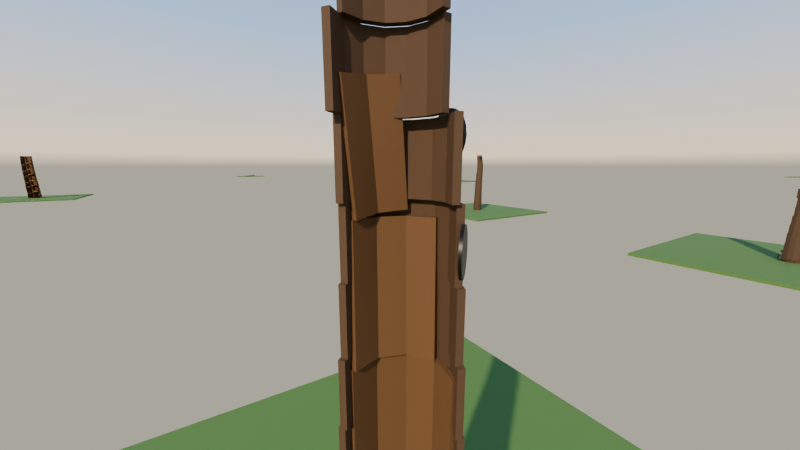
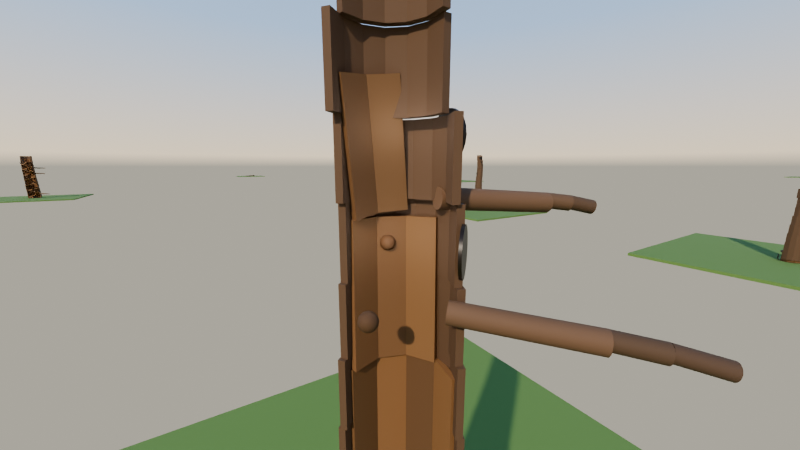
Hollow trees (D32): review renders of the winding climb, the look up the hollow, peeks out of the holes and the holes with their branches from outside; the Blender bark check also measures the knots and roots
Claude-Session: https://claude.ai/code/session_01M7kvU21XVNfCAcdQZ7o6vh

diff --git a/tools/blender/trees/check_hollows.py b/tools/blender/trees/check_hollows.py
@@ -9,7 +9,7 @@ the trunk's bark radius, the squirrel's tapered radius r(1 - 0.48 t) (giants r/0
 the old bark's 14 flats, about the trunk route's own centre line (its lean). Here every corner of every piece is
 measured against the new Bark mesh instead: a level ray from the trunk route's axis at the corner's height, out
 through the corner, to the first bark it meets.
-  inside pieces (liner, floor, roof, tread, post, shelf): margin = bark distance - corner distance; < 0 pokes through.
+  inside pieces (liner, floor, roof, tread, post, shelf, burl, root): margin = bark distance - corner distance; < 0 pokes through.
   knotholes (the dark oval on the bark, seen from outside): its centre's distance - the bark's under it; < -0.06
     (half the disc's 0.12 thickness) buries it in the bark. One where HollowLayout opens a shaft onto a walk's bough
     (inside the first quarter of that bough) fails too: the generator opens the bough's collar round it
@@ -28,17 +28,27 @@ HERE = os.path.dirname(os.path.abspath(__file__))
 sys.path.insert(0, HERE)
 import check_promises as cp  # noqa: E402
 
-INSIDE = ("liner", "floor", "roof", "tread", "post", "shelf")
+INSIDE = ("liner", "floor", "roof", "tread", "post", "shelf", "burl", "root")
 KNOT_BURY = -0.06
 UNDER_BOUGH = 1.6  # studs from a walk's centre line
 
 
 def corners(pc):
-    """HollowLayout.corners: a block's 8 corners; a cylinder's two end rings (24 points each, axis along xv)."""
+    """HollowLayout.corners: a block's 8 corners; a cylinder's two end rings (24 points each, axis along xv); a ball's
+    26 points round it, 13 % out (a knot on a hollow's wall)."""
     p, xv, yv = (np.asarray(pc[k], float) for k in ("p", "xv", "yv"))
     zv = np.cross(xv, yv)
     hx, hy, hz = (s / 2 for s in pc["size"])
     out = []
+    if pc["shape"] == "Ball":
+        r = min(hx, hy, hz) * 1.13
+        for d in (-1, 0, 1):
+            for e in (-1, 0, 1):
+                for f in (-1, 0, 1):
+                    n = math.sqrt(d * d + e * e + f * f)
+                    if n > 0:
+                        out.append(p + (xv * d + yv * e + zv * f) / n * r)
+        return out
     for sx in (-1, 1):
         if pc["shape"] == "Cylinder":
             for k in range(24):
